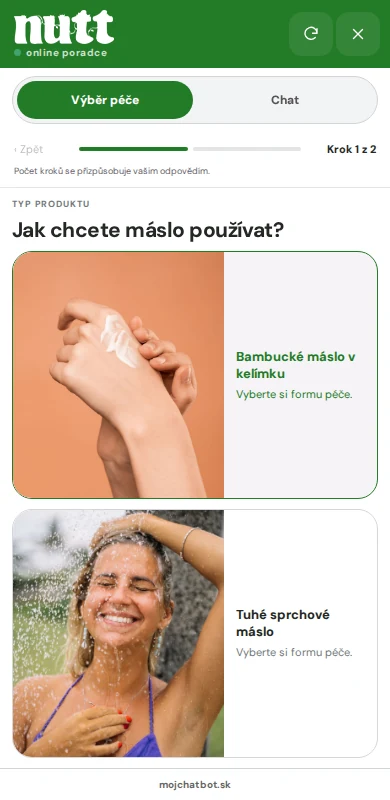
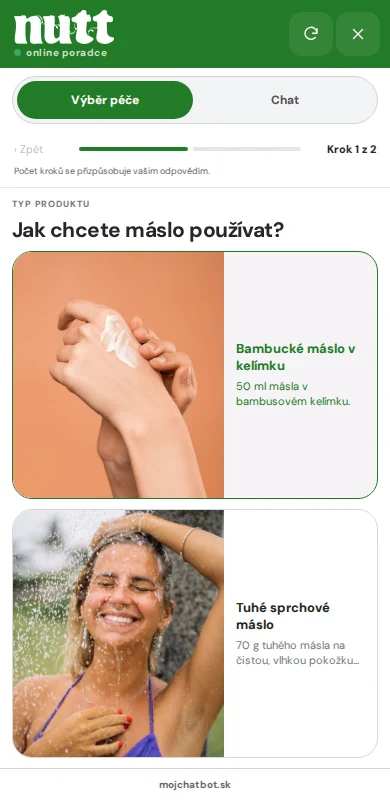
NUTT: replace generic form notes with sourced jar/shower differences; record partial controller verification

Changed region(s): [[0.5846, 0.4062, 0.9231, 0.5312], [0.5846, 0.75, 0.9231, 0.8438]]

diff --git a/n447/s5/registry.js b/n447/s5/registry.js
@@ -2,5 +2,5 @@
 (() => {
  const S='/assets/s3/scenes-k2/';
  const copy={s5Bergamot:['Bergamot a kakao','Čokoládově ovocná vůně','Bergamot a kakao','Čokoládově ovocná vůně'],s5Cinnamon:['Skořice a dřeviny','Nevhodné pro citlivou pokožku','Skořice a dřeviny','Nevhodné pro citlivou pokožku'],s5HempNeem:['Bez esencí a silic','Zemitá a lehce oříšková vůně','Bez esencí a silic','Zemitá a lehce oříšková vůně'],s5LavenderVanilla:['Levandule a vanilka','Bylinná vůně s vanilkou','Levandule a vanilka','Bylinná vůně s vanilkou'],s5Masala:['Kořeněná masala chai','Kořeněná vůně','Kořeněná masala chai','Kořeněná vůně'],s5Coconut:['Jemně kokosová','Bez přidaných silic','Jemně kokosová','Bez přidaných silic'],s5Neroli:['Mandarinka a neroli','Květinově citrusová vůně','Mandarinka a neroli','Květinově citrusová vůně'],s5TeaLime:['Tea tree a limetka','Bylinně citrusová vůně','Tea tree a limetka','Bylinně citrusová vůně']};
- window.S3_REG.demos.nutt={series:'s5',type:'cosmetics',name:'NUTT',country:'CZ',logos:{landing:'/assets/s3/nutt/logo.png',header:'/assets/s3/nutt/logo-white.png',avatar:'/assets/s3/nutt/logo.png'},brand:{name:'NUTT',fullName:'NUTT',domain:'nutt.cz',website:'https://www.nutt.cz/',url:'https://www.nutt.cz/pece-o-cele-telo-bambucka-masla',theme:{brand:'#237b27',accent:'#237b27',soft:'#f5f8f5',paper:'#fff',ink:'#242824',line:'#e3e9e3'},logo:'/assets/s3/nutt/logo.png',mark:'/assets/s3/nutt/logo.png',lang:'cs',greeting:'Dobrý den. Pomůžu vám vybrat z nabídky NUTT. Jakou péči hledáte?',quickChips:['Máslo s kokosovým olejem','Levandule a vanilka','Tuhé máslo do sprchy','Porovnat dva produkty']},traitCopy:copy,stepCopy:{kind:['Jak chcete máslo používat?','Vyberte formu péče.'],careVariant:['Jaká vůně vám vyhovuje?','Rozhodněte se podle svých preferencí.']},choicePhotos:{'Bambucké máslo v kelímku':['/assets/scenes/cream-texture.jpg'],'Tuhé sprchové máslo':[S+'body-shower.jpg'],s5Bergamot:[S+'cocoa.jpg'],s5Cinnamon:[S+'cinnamon.jpg'],s5HempNeem:[S+'hemp.jpg'],s5LavenderVanilla:[S+'lavender.jpg'],s5Masala:[S+'xmas-spices.jpg'],s5Coconut:[S+'coconut.jpg'],s5Neroli:[S+'neroli-blossom.jpg'],s5TeaLime:[S+'tea-tree.jpg']},upsellFocus:{}};
+ window.S3_REG.demos.nutt={series:'s5',type:'cosmetics',name:'NUTT',country:'CZ',logos:{landing:'/assets/s3/nutt/logo.png',header:'/assets/s3/nutt/logo-white.png',avatar:'/assets/s3/nutt/logo.png'},brand:{name:'NUTT',fullName:'NUTT',domain:'nutt.cz',website:'https://www.nutt.cz/',url:'https://www.nutt.cz/pece-o-cele-telo-bambucka-masla',theme:{brand:'#237b27',accent:'#237b27',soft:'#f5f8f5',paper:'#fff',ink:'#242824',line:'#e3e9e3'},logo:'/assets/s3/nutt/logo.png',mark:'/assets/s3/nutt/logo.png',lang:'cs',greeting:'Dobrý den. Pomůžu vám vybrat z nabídky NUTT. Jakou péči hledáte?',quickChips:['Máslo s kokosovým olejem','Levandule a vanilka','Tuhé máslo do sprchy','Porovnat dva produkty']},kindNotes:{'Bambucké máslo v kelímku':'50 ml másla v bambusovém kelímku.','Tuhé sprchové máslo':'70 g tuhého másla na čistou, vlhkou pokožku ve sprše.'},traitCopy:copy,stepCopy:{kind:['Jak chcete máslo používat?','Vyberte formu péče.'],careVariant:['Jaká vůně vám vyhovuje?','Rozhodněte se podle svých preferencí.']},choicePhotos:{'Bambucké máslo v kelímku':['/assets/scenes/cream-texture.jpg'],'Tuhé sprchové máslo':[S+'body-shower.jpg'],s5Bergamot:[S+'cocoa.jpg'],s5Cinnamon:[S+'cinnamon.jpg'],s5HempNeem:[S+'hemp.jpg'],s5LavenderVanilla:[S+'lavender.jpg'],s5Masala:[S+'xmas-spices.jpg'],s5Coconut:[S+'coconut.jpg'],s5Neroli:[S+'neroli-blossom.jpg'],s5TeaLime:[S+'tea-tree.jpg']},upsellFocus:{}};
 })();
